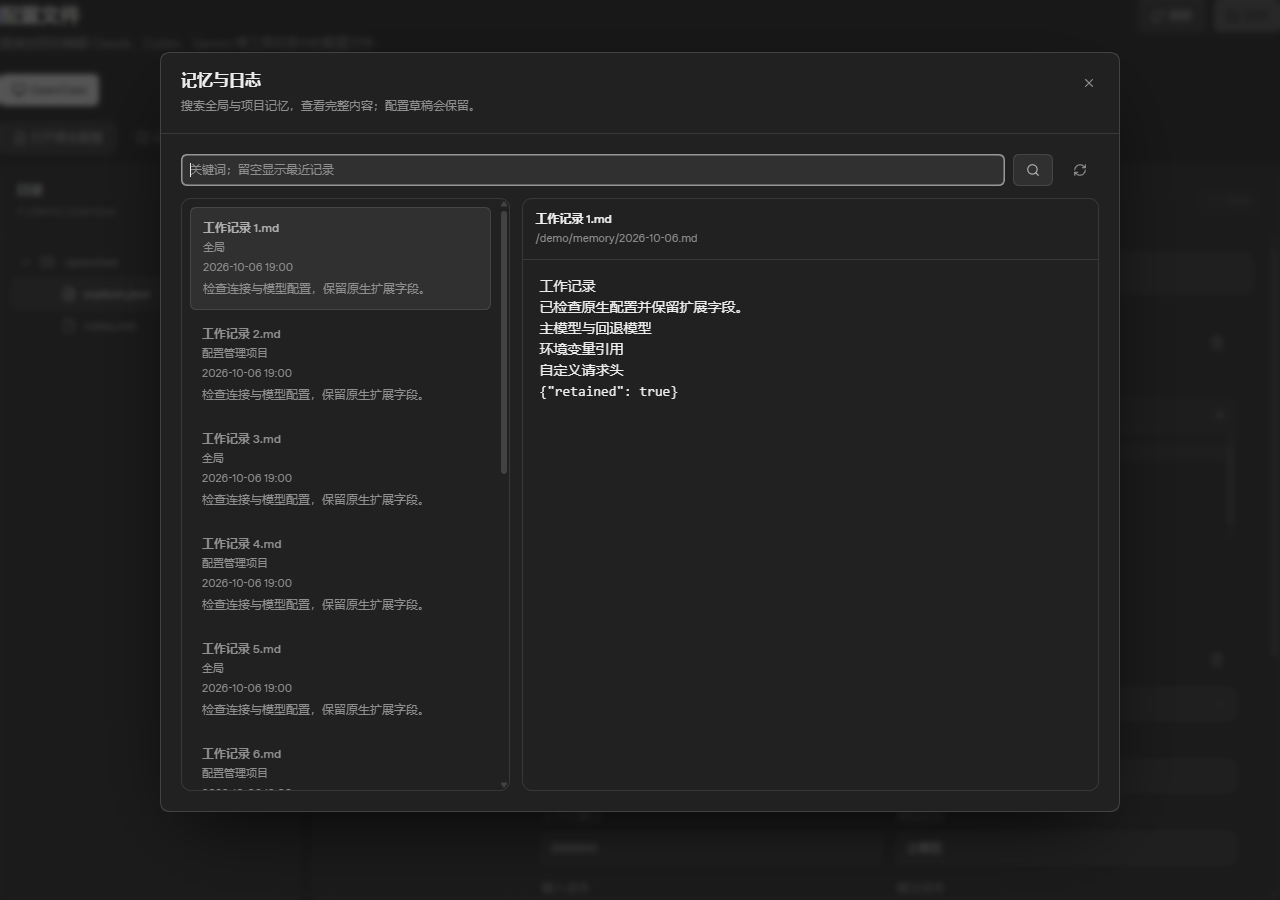
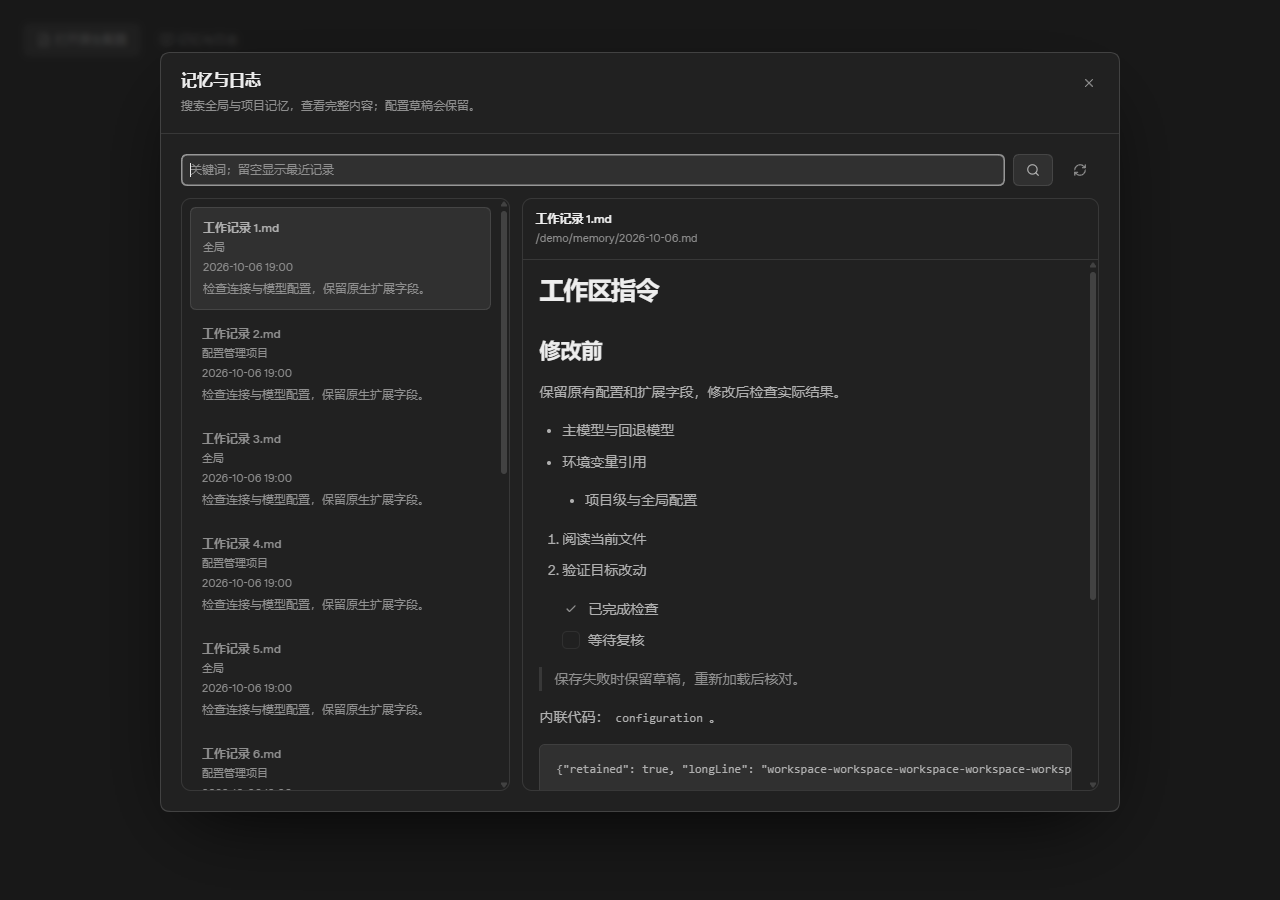
发布: 更新至 1.7.6 并补齐正文预览说明

diff --git a/CHANGELOG.md b/CHANGELOG.md
@@ -1,5 +1,36 @@
 # 版本记录
 
+## 1.7.6
+
+### 新增 / 更新
+
+- 指令、记忆与发布说明共用 Markdown 正文样式，统一标题、列表、引用、代码与表格层次。
+- 只读任务列表使用统一勾选框，表格增加带标签的键盘滚动区域。
+- 更新中英文指令预览说明与实际组件演示截图。
+
+### 变更与安全
+
+- Prompt 文件冲突、编码与权限错误使用本地化恢复提示，不回显原始内部错误。
+
+### 问题修复与打磨
+
+- 修复记忆正文缺少 Markdown 样式、标题与列表退化为普通文本的问题。
+- 修复已有超长说明仍可点击保存却没有反馈的问题，明确标记错误并阻止按钮和快捷键提交。
+- 修复说明输入的 UTF-16 长度上限提前截断补充 Unicode 字符的问题，按字符数与后端保持一致。
+- 修复说明字段辅助提示被包含在无障碍名称中的问题，关联独立名称与说明；补充指令编辑器及只读预览标签。
+- 补充 Markdown 语义、自定义渲染、安全链接、说明长度与文件冲突回归测试。
+
+### 安装
+
+- Windows 提供 NSIS 和 MSI；macOS 提供 Apple Silicon 和 Intel；Linux 提供 deb、rpm 和 AppImage。
+- 可从应用内检查更新，或从对应版本的 Release 页面下载安装包。
+
+### English summary
+
+- Unifies Markdown typography across instructions, memory and release notes, with shared task checkboxes and keyboard-focusable tables.
+- Validates description limits before saving, handles supplementary Unicode characters and improves accessible field labels.
+- Localizes conflict and file-error recovery without exposing internal details, and updates bilingual documentation and screenshots.
+
 ## 1.7.5
 
 ### 新增 / 更新

diff --git a/README.md b/README.md
@@ -129,6 +129,12 @@ This screenshot shows the actual page component with isolated demonstration data
 
 ### Prompt library
 
+Markdown previews share heading, list, quote, code and table typography across instructions, memory records and release notes. Read-only task lists use the shared checkbox component; tables have a labelled, keyboard-focusable scrolling region. Description fields validate the 2,000-character limit before saving, including supplementary Unicode characters. File conflicts and read failures provide localized recovery guidance without displaying raw internal errors.
+
+![CCHub instruction preview](screenshots/prompt-preview.png)
+
+This screenshot shows the actual page with isolated demonstration data, not native desktop acceptance evidence.
+
 Manage instruction versions for Claude, Codex, Gemini, OpenCode, OpenClaw, Hermes and Pi with Markdown editing, preview and search. Importing retains the file's exact contents; replacing live instructions retains the previous contents as another library entry. Deleting an entry preserves the tool's live file. The page reports file-read errors and mismatches instead of treating unreadable content as an empty file or claiming a mismatched version is active.
 
 Saves check the loaded library and file revisions. Conflicts retain the draft until you reload and review the current file or stored version. Writes are serialized, and late responses cannot replace another tool's state. Reported database commit failures roll back file writes still owned by the save; newer external edits are preserved. This recovery does not cover a crash or power loss.
